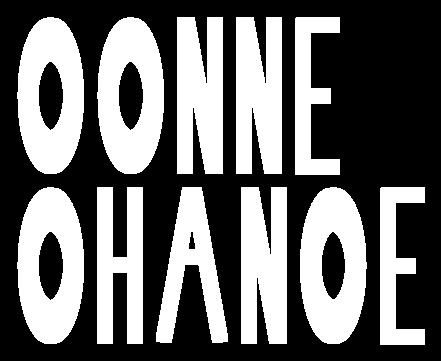
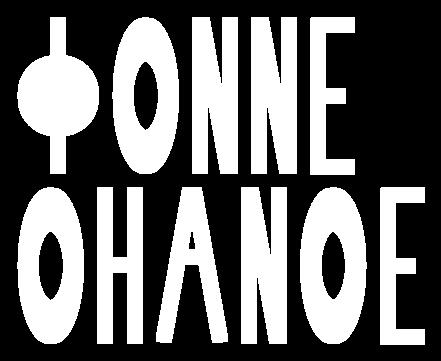
allo

diff --git a/src/main/java/Letter/LetterFactory.java b/src/main/java/Letter/LetterFactory.java
@@ -46,9 +46,17 @@ public final class LetterFactory {
      * @return BaseShape containing the letter B
      */
     public static BaseShape create_B() {
-        Rectangle rectangle = new Rectangle(stripeThickness, maxHeight);
+        Rectangle r1 = new Rectangle(halfStripeThickness, maxHeight);
+        Circle c1 = new Circle(halfMaxHeight);
+        Circle c2 = new Circle(halfMaxHeight);
 
-        return new Ellipse(maxWidth, maxHeight).remove(new Ellipse(halfMaxWidth, halfMaxHeight));
+        Point2d p1 = new Point2d(0.0, 40.0);
+        Point2d p2 = new Point2d(0.0, -40.0);
+
+        c1.translate(c1.getCoords(), p1);
+        c2.translate(c1.getCoords(), p2);
+
+        return r1.add(c1).add(c2);
     }
 
     /** TODO

diff --git a/src/main/java/Shape/Rectangle.java b/src/main/java/Shape/Rectangle.java
@@ -31,8 +31,7 @@ public class Rectangle extends BaseShape {
      * @param coords The collection of 2D points
      */
     private Rectangle(Collection<Point2d> coords) {
-        // addAll(coords);
-        // cloneCoords(coords);
+        new BaseShape(coords);
     }
 
     /** TODO

diff --git a/src/main/java/Shape/Ellipse.java b/src/main/java/Shape/Ellipse.java
@@ -36,8 +36,7 @@ public class Ellipse extends BaseShape {
      * @param coords Collection of 2D points
      */
     private Ellipse(Collection<Point2d> coords) {
-        // addAll(coords);
-        // cloneCoords(coords);
+        new BaseShape(coords);
     }
 
     /** TODO
